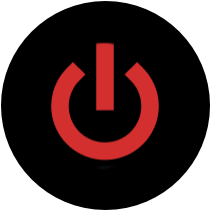
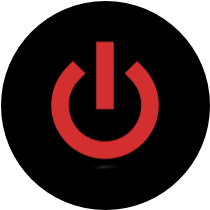
Fix local MEDIA_URL and STATIC_URL to use absolute paths
Relative URLs like 'media/' and 'static/' resolve relative to the current
page path, breaking asset loading on nested URLs. Leading slash makes them
absolute from the domain root.

diff --git a/eatart/settings.py b/eatart/settings.py
@@ -293,7 +293,7 @@ if USE_S3_MEDIA:
     MEDIA_URL = f'https://{AWS_S3_CUSTOM_DOMAIN}/{AWS_MEDIA_LOCATION}/'
 else:
     MEDIA_ROOT = os.path.join(BASE_DIR, 'media')
-    MEDIA_URL = 'media/'
+    MEDIA_URL = '/media/'
 
 STATICFILES_DIRS = [BASE_DIR / "static"]
 
@@ -301,7 +301,7 @@ if USE_S3_STATIC:
     STATIC_URL = f'https://{AWS_S3_CUSTOM_DOMAIN}/{AWS_STATIC_LOCATION}/'
 else:
     STATIC_ROOT = BASE_DIR / "staticfiles"
-    STATIC_URL = 'static/'
+    STATIC_URL = '/static/'
 
 STORAGES = {
     "default": {